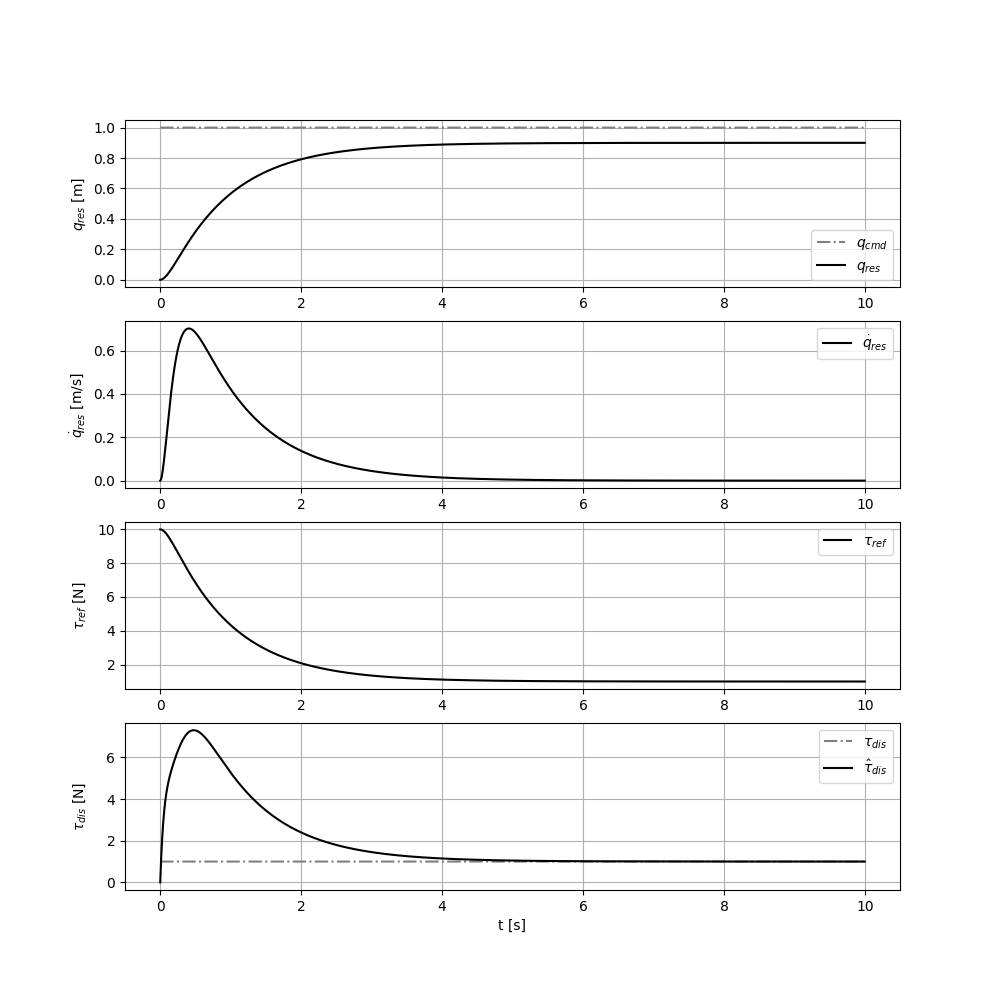
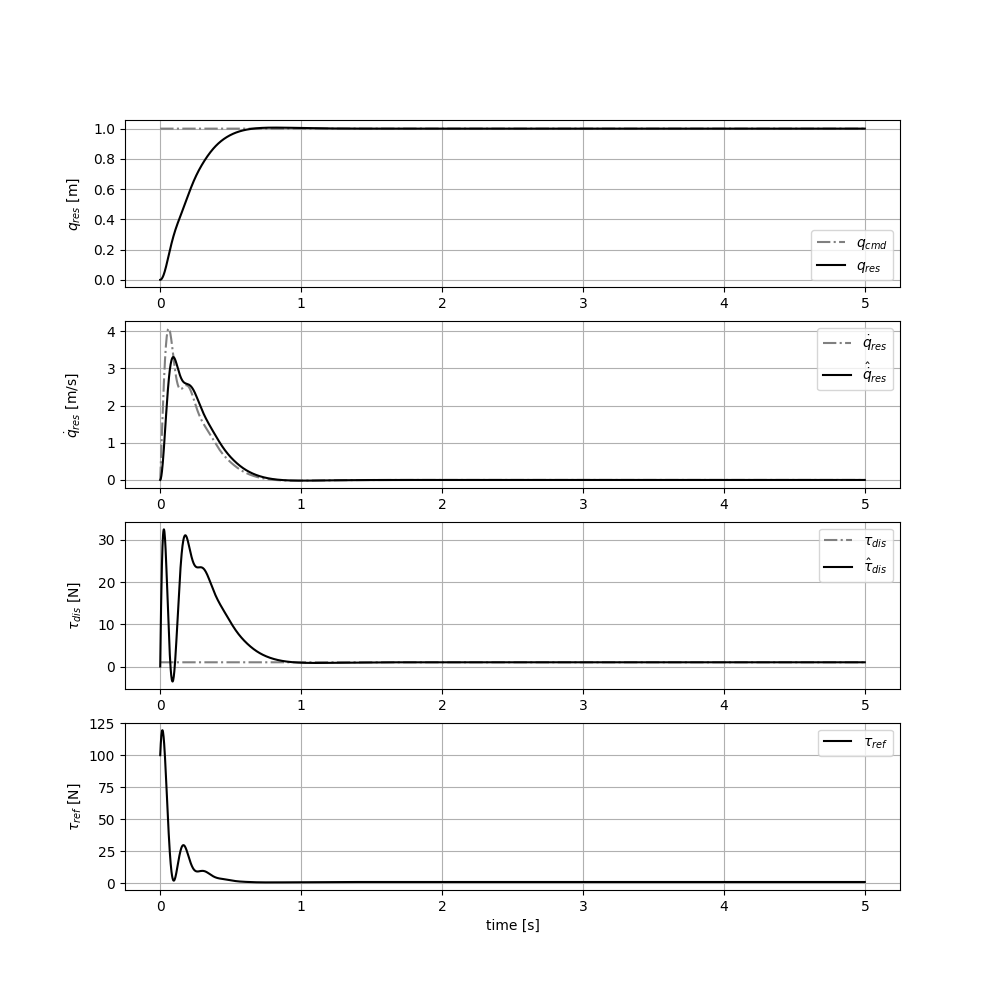
fix controller

diff --git a/disturbance_observer.cpp b/disturbance_observer.cpp
@@ -1,3 +1,5 @@
+#include <math.h>
+
 #include <fstream>
 #include <iostream>
 
@@ -5,125 +7,120 @@ using namespace std;
 
 class SpringMassDamperSystem {
  private:
-  const float mass;            // mass [kg]
-  const float dampingFactor;   // damping factor [Ns/m]
-  const float springConstant;  // spring constant [N/m]
-  const float dt;              // sampling time [s]
+  const float mass_;            // mass [kg]
+  const float dampingFactor_;   // damping factor [Ns/m]
+  const float springConstant_;  // spring constant [N/m]
+  const float dt_;              // sampling time [s]
 
-  float position;
-  float velocity;
-  float acceleration;
+  float position_ = 0.0;
+  float velocity_ = 0.0;
+  float acceleration_ = 0.0;
 
  public:
   SpringMassDamperSystem(float m, float c, float k, float dt)
-      : mass(m),
-        springConstant(k),
-        dampingFactor(c),
-        dt(dt),
-        position(0.0),
-        velocity(0.0),
-        acceleration(0.0) {}
+      : mass_(m), springConstant_(k), dampingFactor_(c), dt_(dt) {}
 
   void update(float force) {
-    acceleration =
-        (force - dampingFactor * velocity - springConstant * position) / mass;
-    velocity += acceleration * dt;
-    position += velocity * dt;
+    acceleration_ =
+        (force - dampingFactor_ * velocity_ - springConstant_ * position_) /
+        mass_;
+    velocity_ += acceleration_ * dt_;
+    position_ += velocity_ * dt_;
   }
 
-  float getPosition() const { return position; }
+  float getPosition() const { return position_; }
+  float getVelocity() const { return velocity_; }
 };
 
 class PseudoDifferential {
  private:
-  const float g;   // cut-off frequency [Hz]
-  const float dt;  // sampling time [s]
+  const float g_;   // cut-off frequency [Hz]
+  const float dt_;  // sampling time [s]
 
-  float x_lpf;
+  float x_lpf_ = 0.0;
 
  public:
-  PseudoDifferential(float g, float dt) : g(g), dt(dt), x_lpf(0.0) {}
+  PseudoDifferential(float g, float dt) : g_(g), dt_(dt) {}
 
   double update(float x) {
-    x_lpf = (x_lpf + g * dt * x) / (1 + g * dt);
-    float y = g * (x - x_lpf);
+    x_lpf_ = (x_lpf_ + g_ * dt_ * x) / (1 + g_ * dt_);
+    float y = g_ * (x - x_lpf_);
     return y;
   }
 };
 
 class DisturbanceObserver {
  private:
-  const float M_n;  // nominal mass [kg]
-  const float g;    // cut-off frequency [Hz]
-  const float dt;   // sampling time [s]
+  const float M_n_;  // nominal mass [kg]
+  const float g_;    // cut-off frequency [Hz]
+  const float dt_;   // sampling time [s]
 
-  float tau_dis_hat;
-  float tmp;
-  float tmp_lpf;
+  float tau_dis_hat_ = 0.0;
+  float tmp_ = 0.0;
+  float tmp_lpf_ = 0.0;
 
  public:
   DisturbanceObserver(float M_n, float g, float dt)
-      : M_n(M_n), g(g), dt(dt), tau_dis_hat(0.0), tmp(0.0), tmp_lpf(0.0) {}
+      : M_n_(M_n), g_(g), dt_(dt) {}
 
   float update(float tau_ref, float vel_res) {
-    tmp = tau_ref + M_n * g * vel_res;
-    tmp_lpf = (tmp_lpf + g * dt * tmp) / (1 + g * dt);
-    tau_dis_hat = tmp_lpf - M_n * g * vel_res;
-    return tau_dis_hat;
+    tmp_ = tau_ref + M_n_ * g_ * vel_res;
+    tmp_lpf_ = (tmp_lpf_ + g_ * dt_ * tmp_) / (1 + g_ * dt_);
+    tau_dis_hat_ = tmp_lpf_ - M_n_ * g_ * vel_res;
+    return tau_dis_hat_;
   };
 };
 
 class Controller {
  private:
-  const float Kp;
-  const float Kd;
-  const float dt;  // sampling time [s]
-  PseudoDifferential pseudo_differential;
-  DisturbanceObserver disturbance_observer;
+  const float Kp_;
+  const float Kd_;
+  const float dt_;  // sampling time [s]
+  PseudoDifferential pseudo_differential_;
+  DisturbanceObserver disturbance_observer_;
 
-  float pos_res;
-  float vel_res;
-  float tau_dis_hat;
-  float tau_ref;
+  float pos_res_ = 0.0;
+  float vel_res_ = 0.0;
+  float tau_dis_hat_ = 0.0;
+  float tau_ref_ = 0.0;
 
  public:
   Controller(float M_hat, float Kp, float Kd, float g, float dt)
-      : Kp(Kp),
-        Kd(Kd),
-        dt(dt),
-        pseudo_differential(g, dt),
-        disturbance_observer(M_hat, g, dt),
-        pos_res(0.0),
-        vel_res(0.0),
-        tau_dis_hat(0.0) {}
+      : Kp_(Kp),
+        Kd_(Kd),
+        dt_(dt),
+        pseudo_differential_(g, dt),
+        disturbance_observer_(M_hat, g, dt) {}
 
   float update(float pos_cmd, float pos_res) {
-    vel_res = pseudo_differential.update(pos_res);
-    tau_dis_hat = disturbance_observer.update(tau_ref, vel_res);
-    tau_ref = Kp * (pos_cmd - pos_res);
+    vel_res_ = pseudo_differential_.update(pos_res);
+    tau_dis_hat_ = disturbance_observer_.update(tau_ref_, vel_res_);
+    // tau_ref = Kp * (pos_cmd - pos_res);
     // tau_ref = Kp * (pos_cmd - pos_res) + Kd * vel_res;
     // tau_ref = Kp * (pos_cmd - pos_res) + tau_dis_hat;
-    return tau_ref;
+    tau_ref_ = Kp_ * (pos_cmd - pos_res) + Kd_ * (0 - vel_res_) + tau_dis_hat_;
+    return tau_ref_;
   }
 
-  float getPosition() const { return pos_res; }
-  float getVelocity() const { return vel_res; }
-  float getDisturbance() const { return tau_dis_hat; }
+  float getPosition() const { return pos_res_; }
+  float getVelocity() const { return vel_res_; }
+  float getDisturbance() const { return tau_dis_hat_; }
 };
 
 int main() {
-  const float dt = 0.002;       // sampling time [s]
-  const float sim_time = 10.0;  // simulation time [s]
+  const float dt = 0.002;      // sampling time [s]
+  const float sim_time = 5.0;  // simulation time [s]
 
   const float M = 1.0;   // mass [kg]
   const float C = 10.0;  // damping factor [Ns/m]
   const float K = 0.0;   // spring constant [N/m]
   SpringMassDamperSystem system(M, C, K, dt);
 
-  const float M_n = M;    // nominal mass [kg]
-  const float Kp = 10.0;  // p gain
-  const float Kd = 1.0;   // d gain
-  const float g = 10.0;   // cut-off frequency [Hz]
+  const float M_n = M * 1.5;           // nominal mass [kg]
+  const float pole = 10;         // pole
+  const float Kp = pole * pole;  // p gain
+  const float Kd = 2 * pole;     // d gain
+  const float g = 30.0;          // cut-off frequency [Hz]
   Controller controller(M_n, Kp, Kd, g, dt);
 
   float pos_cmd = 1.0;  // position control command [m]
@@ -137,6 +134,7 @@ int main() {
                 "tau_ref,"
                 "pos_res,"
                 "vel_res,"
+                "vel_res_hat,"
                 "tau_dis,"
                 "tau_dis_hat"
              << std::endl;
@@ -145,16 +143,20 @@ int main() {
     // observation
     float pos_res = system.getPosition();
 
+    // pos_cmd = 1.0 + 0.5 * sin(2 * M_PI * 0.5 * i * dt);
+    // pos_cmd = 0.5 * sin(2 * M_PI * 0.5 * i * dt);
+
     // calculate control input
     float tau_ref = controller.update(pos_cmd, pos_res);
 
     // print
-    float vel_res = controller.getVelocity();
+    float vel_res = system.getVelocity();
+    float vel_res_hat = controller.getVelocity();
     float tau_dis_hat = controller.getDisturbance();
     string row = to_string(i * dt) + "," + to_string(pos_cmd) + "," +
                  to_string(tau_ref) + "," + to_string(pos_res) + "," +
-                 to_string(vel_res) + "," + to_string(tau_dis) + "," +
-                 to_string(tau_dis_hat);
+                 to_string(vel_res) + "," + to_string(vel_res_hat) + "," +
+                 to_string(tau_dis) + "," + to_string(tau_dis_hat);
     cout << row << endl;
     output_csv << row << endl;
 

diff --git a/plot_result.py b/plot_result.py
@@ -18,25 +18,27 @@ def main():
     ax[0].grid()
 
     ax[1].plot(df['time'], df['vel_res'],
-               label=r'$\dot{q}_{res}$', ls='-', color='black')
+               label=r'$\dot{q}_{res}$', ls='-.', color='gray')
+    ax[1].plot(df['time'], df['vel_res_hat'],
+               label=r'$\hat{\dot{q}}_{res}$', ls='-', color='black')
     # ax[1].set_xlabel('t [s]')
     ax[1].set_ylabel(r'$\dot{q}_{res}$ [m/s]')
     ax[1].legend()
     ax[1].grid()
 
-    ax[2].plot(df['time'], df['tau_ref'],
-               label=r'$\tau_{ref}$', ls='-', color='black')
-    # ax[1].set_xlabel('t [s]')
-    ax[2].set_ylabel(r'$\tau_{ref}$ [N]')
+    ax[2].plot(df['time'], df['tau_dis'],
+               label=r'$\tau_{dis}$', ls='-.', color='gray')
+    ax[2].plot(df['time'], df['tau_dis_hat'],
+               label=r'$\hat{\tau}_{dis}$', ls='-', color='black')
+    # ax[2].set_xlabel('t [s]')
+    ax[2].set_ylabel(r'$\tau_{dis}$ [N]')
     ax[2].legend()
     ax[2].grid()
 
-    ax[3].plot(df['time'], df['tau_dis'],
-               label=r'$\tau_{dis}$', ls='-.', color='gray')
-    ax[3].plot(df['time'], df['tau_dis_hat'],
-               label=r'$\hat{\tau}_{dis}$', ls='-', color='black')
-    ax[3].set_xlabel('t [s]')
-    ax[3].set_ylabel(r'$\tau_{dis}$ [N]')
+    ax[3].plot(df['time'], df['tau_ref'],
+               label=r'$\tau_{ref}$', ls='-', color='black')
+    ax[3].set_xlabel('time [s]')
+    ax[3].set_ylabel(r'$\tau_{ref}$ [N]')
     ax[3].legend()
     ax[3].grid()
 
